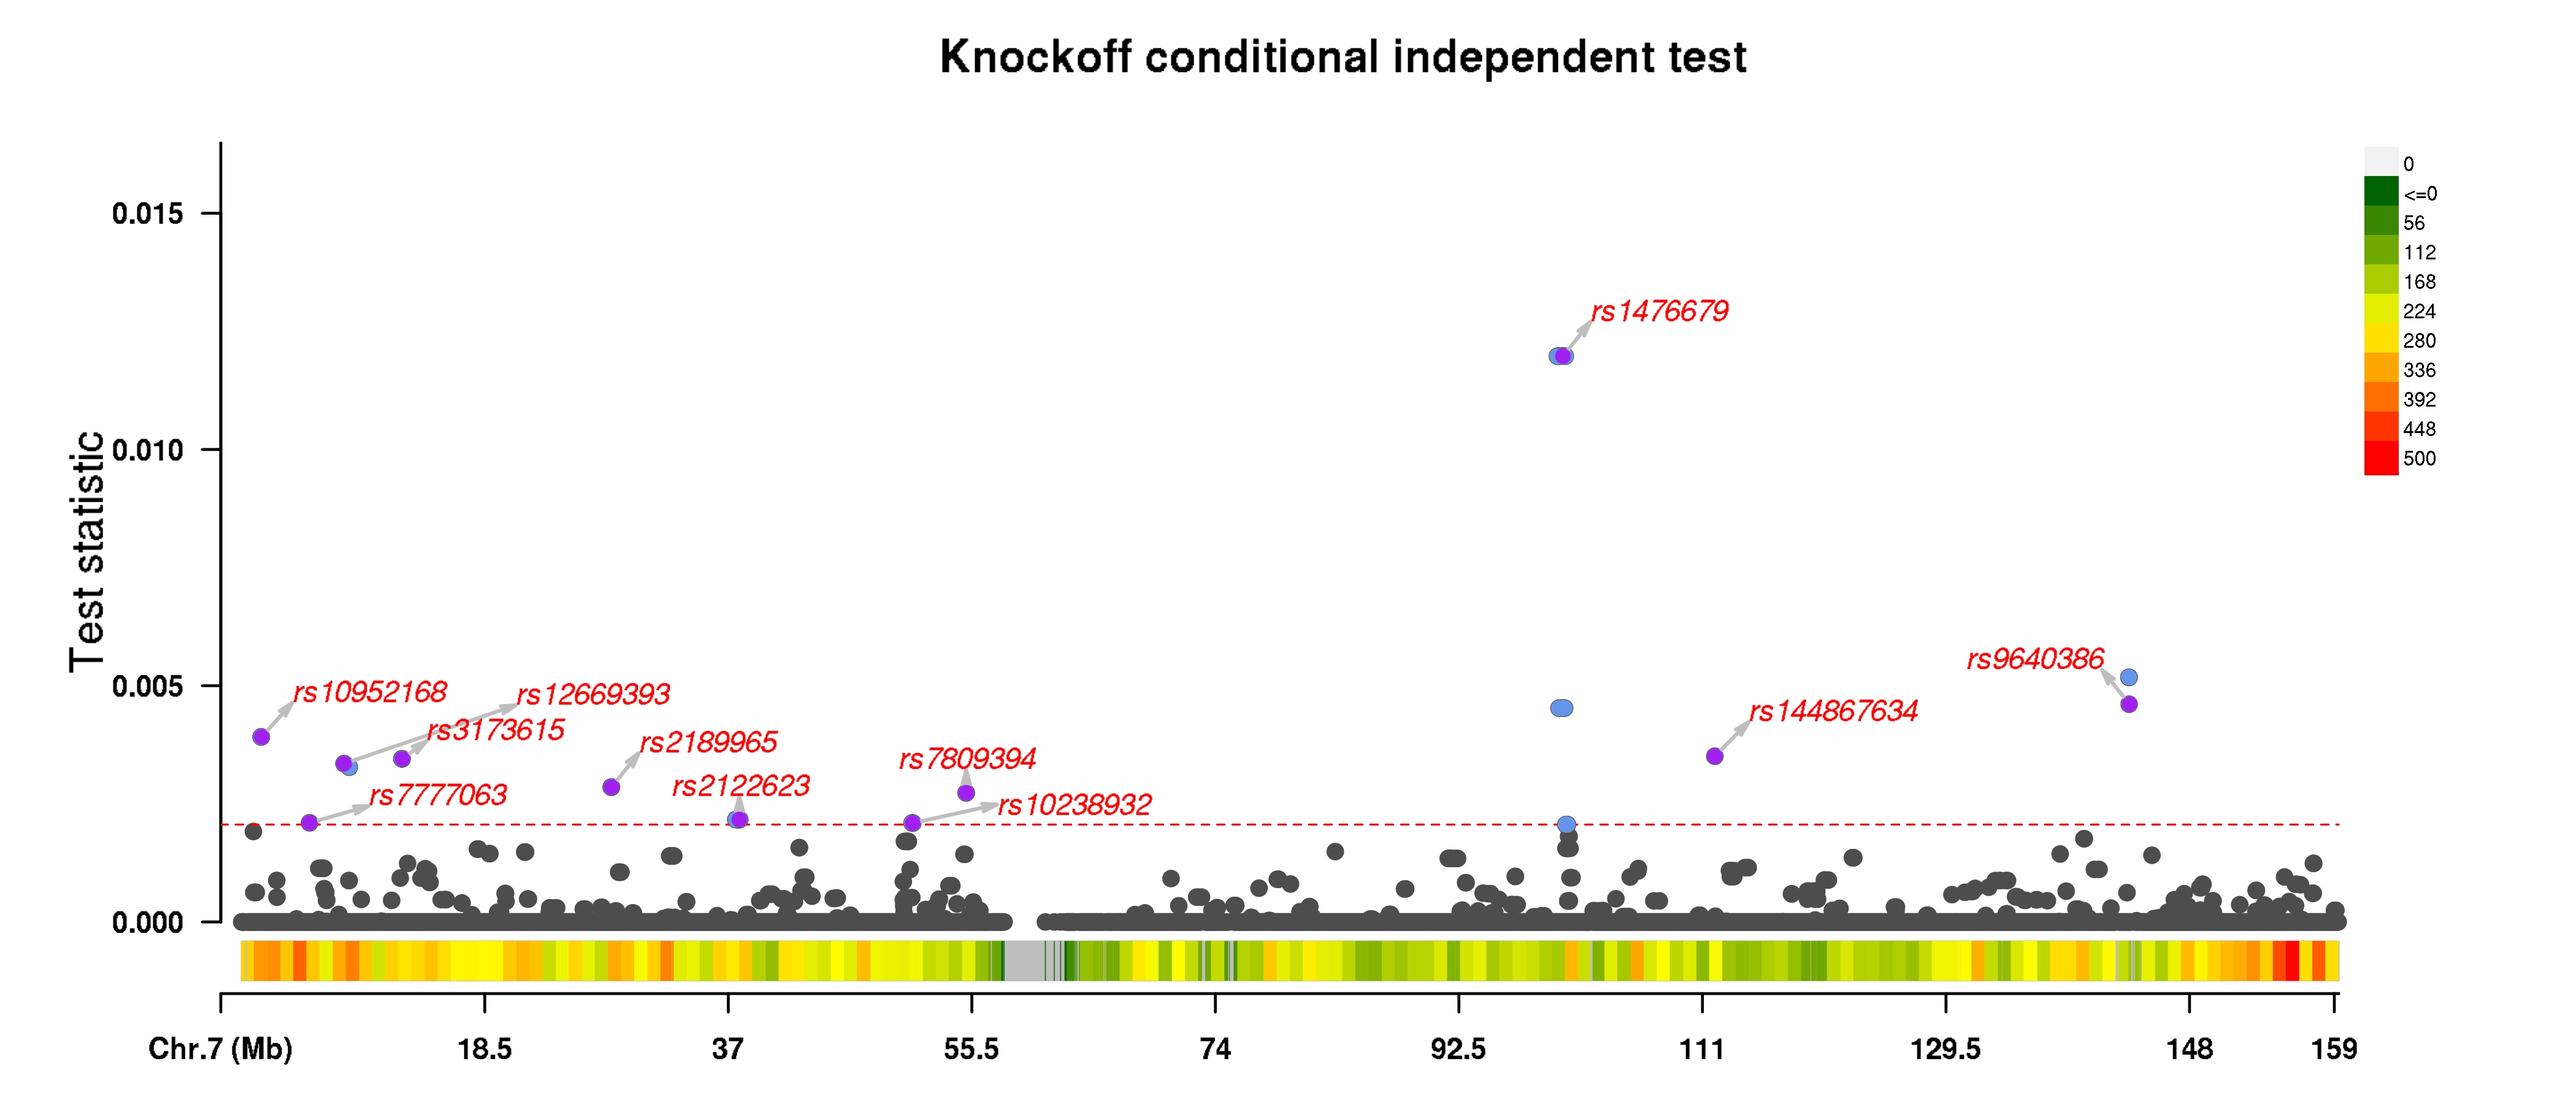
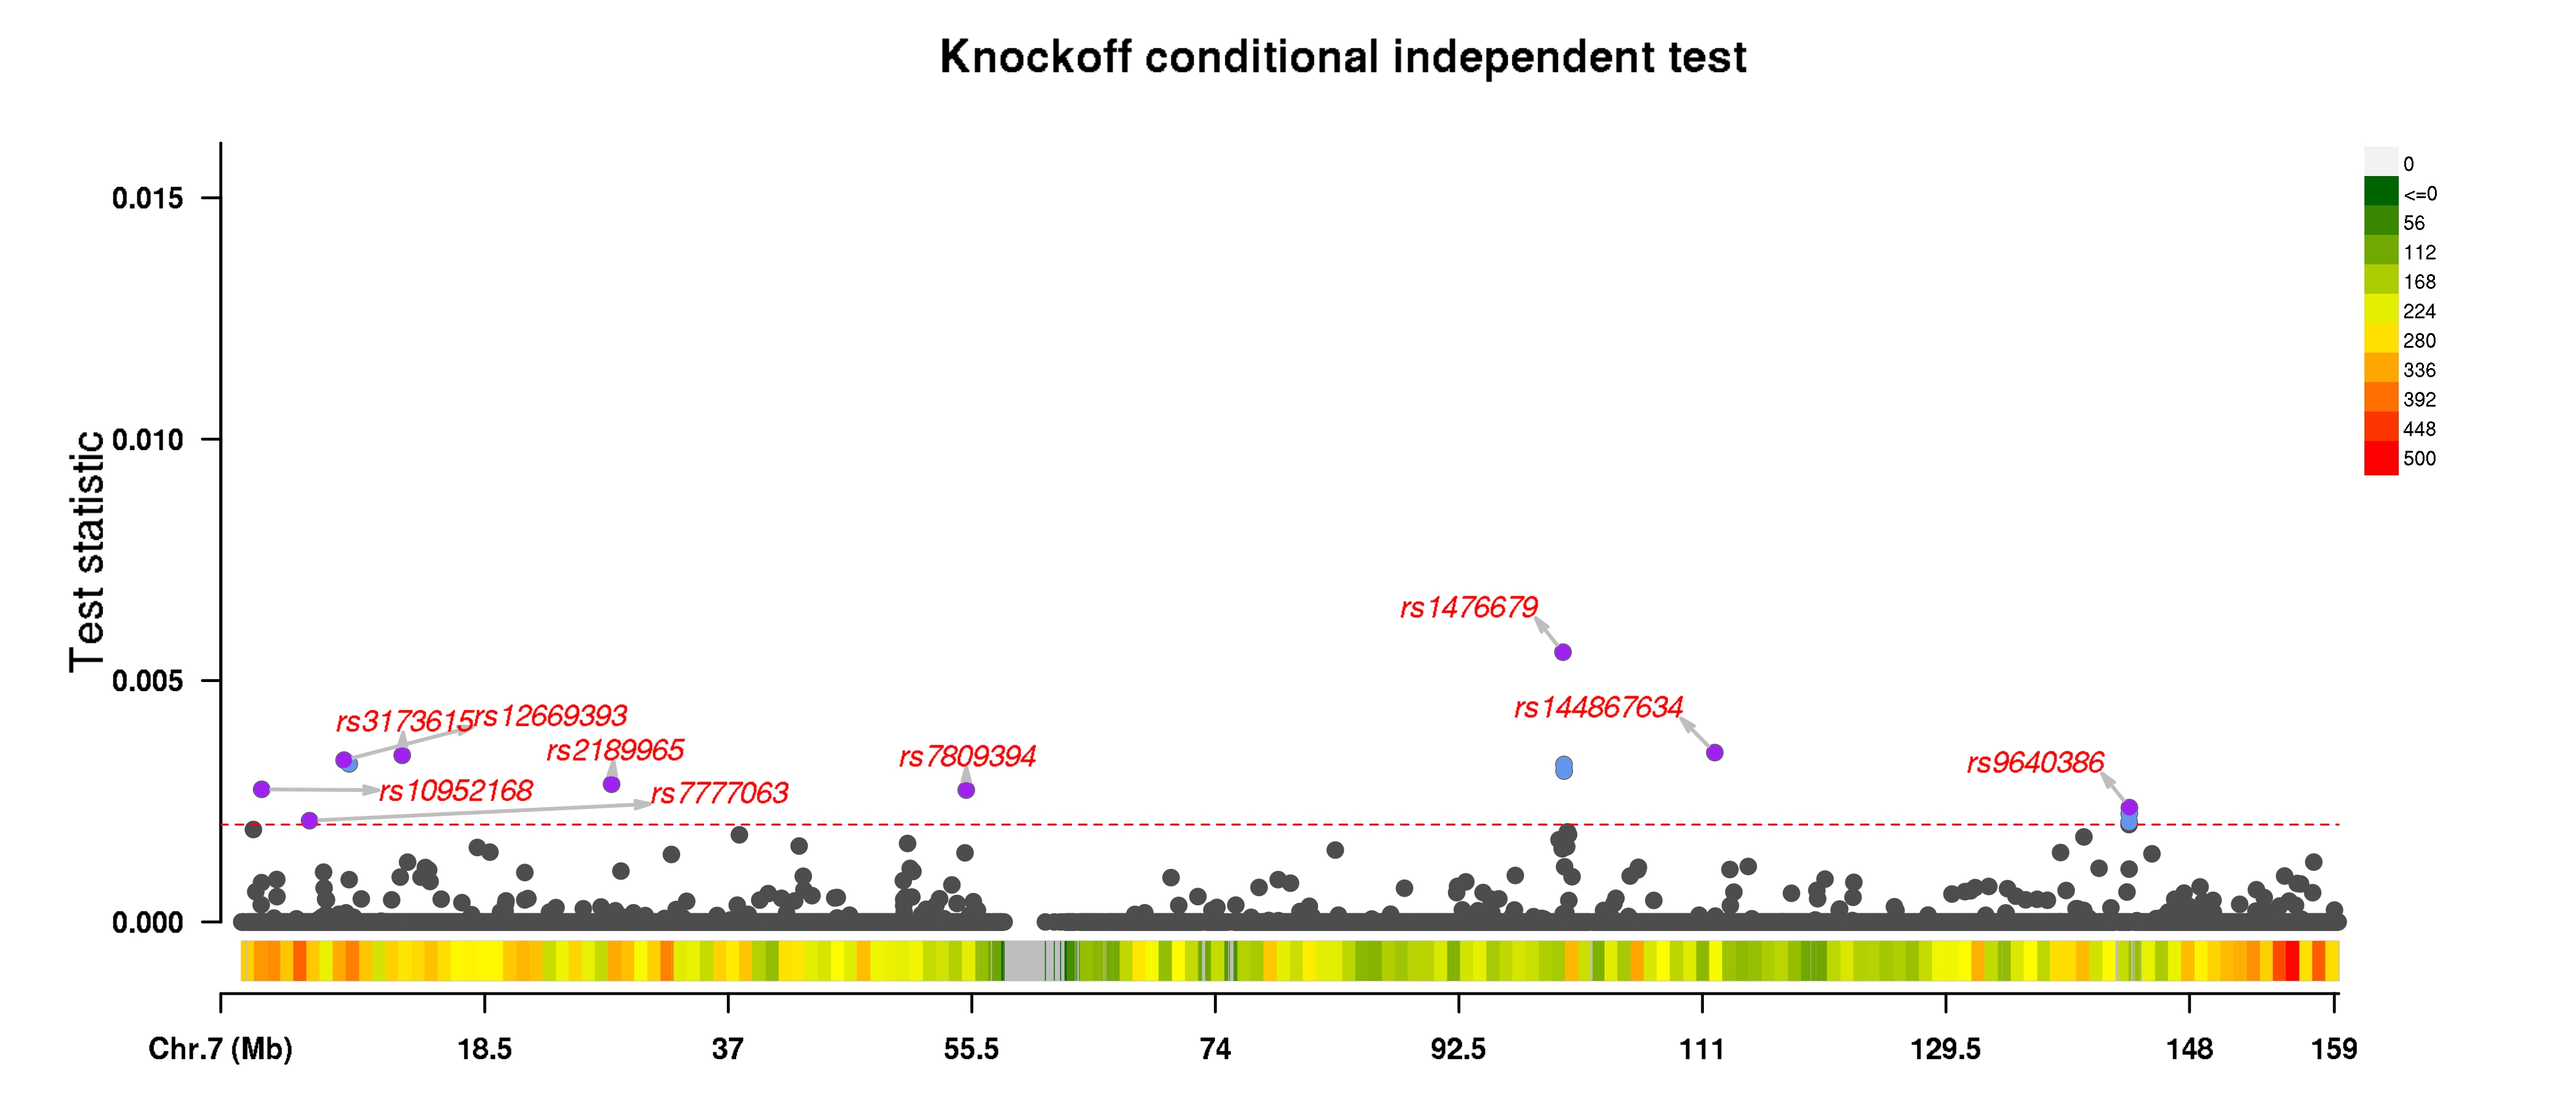
update docs to use within-group filter (#6)

diff --git a/docs/src/man/examples.md b/docs/src/man/examples.md
@@ -110,26 +110,26 @@ This file contains broad summary of the analysis, as shown below
 
 ```
 target_fdr_0.01_num_selected,0
-target_fdr_0.05_num_selected,11
+target_fdr_0.05_num_selected,10
 target_fdr_0.1_num_selected,15
-target_fdr_0.2_num_selected,19
+target_fdr_0.2_num_selected,25
 m,5
 nregions,99
 nsnps,35855
 lasso_lambda,0.003807185801078654
 mean_LD_shrinkage,0.020501422972314207
-import_time,14.982829126999999
-sample_knockoff_time,8.674102106999996
-ghostbasil_time,0.706785777
-knockoff_filter_time,5.011729142
-total_time,29.969953060150146
-sample_knockoff_time_t21,4.213006547999999
-sample_knockoff_time_t22,0.9331997300000002
-sample_knockoff_time_t23,1.103306673
-sample_knockoff_time_t24,2.3132567919999993
+import_time,11.890378966000004
+sample_knockoff_time,7.483832024999999
+ghostbasil_time,0.7074100039999999
+knockoff_filter_time,6.180893948
+total_time,26.47797393798828
+sample_knockoff_time_t21,2.7361857229999993
+sample_knockoff_time_t22,1.532605566
+sample_knockoff_time_t23,0.81481418
+sample_knockoff_time_t24,2.3322181589999995
 ```
 
-+ The first 4 rows indicate the number of unique (conditionally-independent) discoveries according to `GhostKnockoffGWAS`, for different target FDR levels. For example, when target $\text{FDR} = 0.1$, there are 15 conditionally inependent discoveries, with each discovery potentially covering >1 SNP. According to the knockoff procedure, these discoveries are conditionally independent, although one can apply a post-processing step to further count the number of independent discoveries. We will see this action later in step 5. 
++ The first 4 rows indicate the number of discovered SNPs according to `GhostKnockoffGWAS`, for different target FDR levels. For example, when target $\text{FDR} = 0.1$, there are 15 significant SNPs whose knockoff q-value is below 0.1. If these SNPs reside in different groups, then according to the knockoff procedure, these discoveries are conditionally independent. Later in step 5, we will apply a post-processing step to further count the number of independent discoveries are determined by the physical distance between these SNPs. 
 + The next few rows contain parameters used in the analysis, as well as timing results. 
 
 !!! tip
@@ -141,11 +141,11 @@ sample_knockoff_time_t24,2.3132567919999993
 This is a comma-separated file that contains the full knockoff analysis output. The first 5 rows are shown:
 ```
 $ head -5 example_output.txt
-rsid,AF,chr,ref,alt,pos_hg19,pos_hg38,group,zscores,lasso_beta,variant_kappa,variant_tau,variant_W,variant_q,pvals,group_W,group_kappa,group_tau,group_qvals,selected_fdr0.01,selected_fdr0.05,selected_fdr0.1,selected_fdr0.2
-rs4535687,0.15927,7,G,C,41892,41892,chr7_start16161_end972751_group1_0,-1.17940334810126,0.0,0,0.0,0.0,1.0,0.23823760256835697,0.0,0.0,0.0,1.0,0,0,0,0
-rs62429406,0.031058,7,T,G,43748,43748,chr7_start16161_end972751_group2_0,0.636126444862832,0.0,0,0.0,0.0,1.0,0.5246940103826294,0.0,0.0,0.0,1.0,0,0,0,0
-rs117163387,0.034958,7,C,T,43961,43961,chr7_start16161_end972751_group3_0,-0.548757491205702,0.0,0,0.0,0.0,1.0,0.5831718861307663,0.0,0.0,0.0,1.0,0,0,0,0
-rs4247525,0.040199,7,T,C,44167,44167,chr7_start16161_end972751_group4_0,0.463442453535633,0.0,0,0.0,0.0,1.0,0.6430472544316368,0.0,0.0,0.0,1.0,0,0,0,0
+rsid,AF,chr,ref,alt,pos_hg19,pos_hg38,group,zscores,lasso_beta,kappa,tau,W,qvals,pvals,selected_fdr0.01,selected_fdr0.05,selected_fdr0.1,selected_fdr0.2
+rs4535687,0.15927,7,G,C,41892,41892,chr7_start16161_end972751_group1_0,-1.17940334810126,0.0,0,0.0,0.0,1.0,0.23823760256835697,0,0,0,0
+rs62429406,0.031058,7,T,G,43748,43748,chr7_start16161_end972751_group2_0,0.636126444862832,0.0,0,0.0,0.0,1.0,0.5246940103826294,0,0,0,0
+rs117163387,0.034958,7,C,T,43961,43961,chr7_start16161_end972751_group3_0,-0.548757491205702,0.0,0,0.0,0.0,1.0,0.5831718861307663,0,0,0,0
+rs4247525,0.040199,7,T,C,44167,44167,chr7_start16161_end972751_group4_0,0.463442453535633,0.0,0,0.0,0.0,1.0,0.6430472544316368,0,0,0,0
 ```
 
 The first row is a header row. Each proceeding row corresponds to a SNP that was used in the analysis. 
@@ -154,10 +154,14 @@ The first row is a header row. Each proceeding row corresponds to a SNP that was
 + `group` column: defines group membership. Note that in GhostKnockoffGWAS, false discovery rate (FDR) is guaranteed at the group level, that is, the expected number of falsely discovered groups is less than the target FDR level.
 + `zscores`: This is the user-provided Z-scores.
 + `lasso_beta`: This is the Lasso's estimated effect size for each SNP conditional on the knockoffs. 
-+ `variant_kappa,variant_tau,variant_W,variant_q,pvals,group_W,group_kappa,group_tau`: these are knockoff statistics computed from the analysis, please refer to our paper for more detail. 
-+ `variant_q,group_qvals`: This is the knockoff q-values, which is the minimum target FDR for a given variable to be selected, i.e. for a target FDR level $\alpha$, all variants with `group_qvals` $\le \alpha$ is selected. `GhostKnockoffGWAS` performs selection on the group-level while variant-level qvalue is used for labeling significant SNPs in downstream manhattan plots. For details, see eq 19 of [this paper](https://www.nature.com/articles/s41467-022-34932-z)
++ `kappa,tau,W`: these are knockoff statistics computed from the analysis, please refer to our paper for more detail. 
++ `qvals`: This is the knockoff q-values, which is the minimum target FDR for a given variable to be selected, i.e. for a target FDR level $\alpha$, all variants with `qvals` $\le \alpha$ is selected. 
 + `pvals`: This is the p-value obtained by back-transforming the input Z-scores
 + `selected_fdr*` columns: these inform whether the variable is selected. Its values are 0 (indicating the SNP does not belong to a group that has been selected) or 1 (this SNP has been selected, along with those in the same group ).
+
+!!! note
+
+    Sometimes it is useful to determine the number of *conditionally independent* discoveries according to the knockoff procedure. In this case, one should count the number of unique *groups* that contains the discovered SNPs. In this example, when target FDR is $10\%$, there are 15 SNPs with knockoff q-values less than 0.1, and they reside in 11 unique groups. Thus, the knockoff procedure claims there are at least 11 unique (conditionally-independent) causal variables. 
 
 ## Step 5: Generating Manhattan plots
 
@@ -184,6 +188,6 @@ This produced the following plots
 
 ### Explanation:
 
-+ The knockoff plot displays the knockoff W values on the y-axis, one dot for each SNP. As we are plotting the group-level W statistics, all variants within the same group possess the same W value. How then do we decide which SNP to label? In this R script, the most significant SNP (as determined by the *individual-variant-level W statistics*) within a 1Mb region is labeled and colored with purple. A light blue dot is within 1Mb region of another more significant SNP. Careful readers may recall that in the summary file (shown in step 4), knockoffs discovered 15 conditionally independent *groups*, but here only 11 SNPs were labelled. This is because some discovered groups are too close to each other. In this example, although there are 15 independent discoveries according to the knockoff methodology, there are only 11 discoveries that are physically greater than 1Mb apart. Finally, for the variant rs9640386, although it has a weaker *group-level* W score compared to a nearby variant, its individual level W statistic is stronger, and therefore it is the labeled SNP. 
++ The knockoff plot displays the knockoff W values on the y-axis, one dot for each SNP. The most significant SNP within a 1Mb region is labeled and colored with purple. Light blue dots are knockoff discoveries that are within 1Mb distance to another more significant SNP. Careful readers may recall that in the summary file (shown in step 4), `GhostKnockoffGWAS` discovered 15 SNPs which falls within 11 unique *groups*, but here only 9 SNPs were labelled. This is because some discoveries are too close to each other. In this example, only 9 among 15 SNPs are physically greater than 1Mb apart. This immediate begs the question of how many discoveries one should report. Our papers typically report the number of discoveries physically >1Mb apart (i.e. 9 discoveries in this case), but please note that there are in fact at least 11 conditionally independent discoveries according to the knockoff methodology.
 + The marginal plot is a standard Manhattan plot with the y-axis plotting the negative logged p-values. Similar to the knockoff plot, all dots above the dotted line are marginally significant and colored with light blue, while the most signicant SNP within 1Mb region is colored with purple. 
 + The color bars beneath the x-axis displays chromosome density.

diff --git a/docs/src/man/intro.md b/docs/src/man/intro.md
@@ -19,30 +19,30 @@ Answer: If you already conducted a GWAS, have an output file that includes Z sco
 + If your study subjects are somewhat admixed, one can try using the most suitable LD files, and check how much deviation there are from the LD files by examining the `LD_shrinkage` parameter in the output of `GhostKnockoffGWAS`, see [this FAQ](https://biona001.github.io/GhostKnockoffGWAS/dev/man/FAQ/#Is-the-result-is-trustworthy?).
 + If instead you have individual level genotypes, you should run a GWAS using standard tools (e.g. PLINK, BOLT, GCTA, SAIGE, GEMMA, ...etc) before running GhostKnockoffGWAS. 
 
-## Typical Workflow (minimal working example)
+## Quick Start
 
-Most users are expected to follow this workflow. 
+Most users are expected to follow this workflow. Detailed explanations for each step is available in [Tutorial](https://biona001.github.io/GhostKnockoffGWAS/dev/man/examples/).
 
 1. Go to [Download Page](https://biona001.github.io/GhostKnockoffGWAS/dev/man/download) and download (1) the software and (2) the pre-processed LD files. For example,
-```
-wget https://github.com/biona001/GhostKnockoffGWAS/releases/download/v0.1.0/app_linux_x86.tar.gz
-wget https://zenodo.org/records/10433663/files/EUR.zip
-```
-2. Unzip them both, e.g.
-```
-tar -xvzf app_linux_x86.tar.gz
-unzip EUR.zip  # decompresses to ~8.7GB
-```
-3. Prepare your input Z score file into accepted format, see [Acceptable Z-scores](https://biona001.github.io/GhostKnockoffGWAS/dev/man/zfile). Download a toy example by
-```
-wget https://github.com/biona001/GhostKnockoffGWAS/blob/main/data/example_zfile.txt
-```
-4. Run the executable
-```
-app_linux_x86/bin/GhostKnockoffGWAS --zfile example_zfile.txt --LD-files EUR --N 506200 --genome-build 38 --out example_output
-```
 
-For detailed explanations of these steps, see [Detailed Example](https://biona001.github.io/GhostKnockoffGWAS/dev/man/examples/). Those familiar with the Julia programming language can use GhostKnockoffGWAS as a regular julia package, see [usage within Julia](https://biona001.github.io/GhostKnockoffGWAS/dev/man/julia).
+        wget https://github.com/biona001/GhostKnockoffGWAS/releases/download/v0.1.0/app_linux_x86.tar.gz
+        wget https://zenodo.org/records/10433663/files/EUR.zip
+2. Unzip them both:
+
+        tar -xvzf app_linux_x86.tar.gz
+        unzip EUR.zip  # decompresses to ~8.7GB
+3. Prepare your input Z score file into accepted format, see [Acceptable Z-scores](https://biona001.github.io/GhostKnockoffGWAS/dev/man/zfile). A toy example can be downloaded by:
+
+        wget https://github.com/biona001/GhostKnockoffGWAS/blob/main/data/example_zfile.txt
+4. Run the executable
+
+        app_linux_x86/bin/GhostKnockoffGWAS --zfile example_zfile.txt --LD-files EUR --N 506200 --genome-build 38 --out example_output
+        
+5. Make Manhattan plot with [this R script](https://github.com/biona001/GhostKnockoffGWAS/blob/main/src/manhattan.R). See step 5 in [Tutorial](https://biona001.github.io/GhostKnockoffGWAS/dev/man/examples/) for more details. 
+
+    
+
+Those familiar with the Julia programming language can use GhostKnockoffGWAS as a regular julia package, see [usage within Julia](https://biona001.github.io/GhostKnockoffGWAS/dev/man/julia).
 
 ## More general knockoff constructions
 

diff --git a/docs/src/man/documentation.md b/docs/src/man/documentation.md
@@ -40,4 +40,4 @@ GhostKnockoffGWAS --zfile example_zfile.txt --LD-files EUR --N 506200 --genome-b
 2. A comma-separated file, e.g. `example_output.txt`. This file contains the full `GhostKnockoffGWAS` output, one SNP in each row.
 3. (optional) Manhattan plots, which can be generated by following [step 5 of detailed example](https://biona001.github.io/GhostKnockoffGWAS/dev/man/examples/#Step-5:-Generating-Manhattan-plots).
 
-For a more detailed explanation on these 2 files, see [Detailed Example](https://biona001.github.io/GhostKnockoffGWAS/dev/man/examples/#Step-4:-Interpreting-the-result). 
+For a more detailed explanation on these 2 files, see [Tutorial](https://biona001.github.io/GhostKnockoffGWAS/dev/man/examples/#Step-4:-Interpreting-the-result). 

diff --git a/docs/src/man/download.md b/docs/src/man/download.md
@@ -5,9 +5,9 @@ Here is the main downloads page. New software and pre-processed knockoff data wi
 
 ## Software
 
-| Operating System | v0.0.1 (24 Jan, 2024)      |
+| Operating System | v0.1.0 (Pre-release, 19 Feb, 2024)      |
 | :---             |       :----:               |
-| Linux 64-bit     | [Download](https://github.com/biona001/GhostKnockoffGWAS/releases)       |
+| Linux 64-bit     | [Download](https://github.com/biona001/GhostKnockoffGWAS/releases/tag/v0.1.0)       |
 
 After unzipping, the executable will be located inside `bin/GhostKnockoffGWAS`. We recommend adding the folder containing the `GhostKnockoffGWAS` executable to `PATH` for easier access.
 
